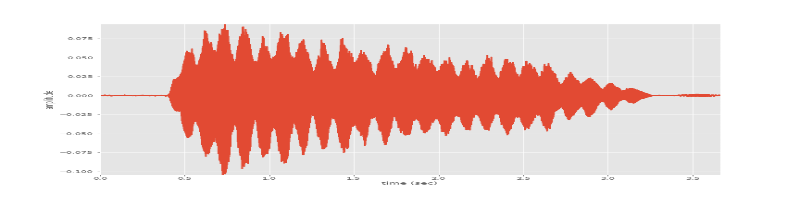
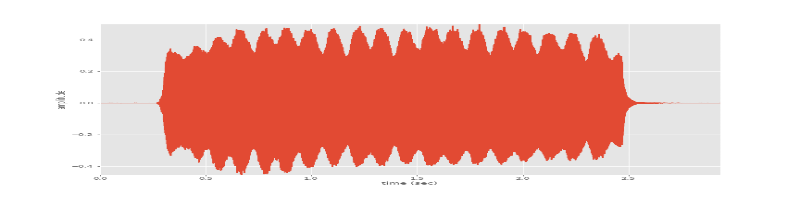
Menampilkan waktu proses

diff --git a/audio_testing.py b/audio_testing.py
@@ -42,9 +42,9 @@ class Main:
         self.path = ""
         global source, file_paths, models, speakers
         #path to training data
-        source   = "development_set/"
+        source   = "pendahuluan_set/"
         modelpath = "pendahuluan_models/"
-        test_file = "development_set_test.txt"    
+        test_file = "pendahuluan_set_test.txt"    
         file_paths = open(test_file,'r')
         
         gmm_files = [os.path.join(modelpath,fname) for fname in os.listdir(modelpath) if fname.endswith('.gmm')]
@@ -82,26 +82,26 @@ class Main:
         self.FnameTxt.set("Belum Ada Pupuh")
         self.WSizeTxt = StringVar()
         self.windowSizeEnt = Entry(self.opFrame, width=15, bd=2, textvariable=self.WSizeTxt)
-        self.windowSizeEnt.grid(row=1, column=0, padx=5, pady=3, sticky=W)
+        self.windowSizeEnt.grid(row=1, column=0, padx=5, sticky=W)
         self.WSizeTxt.set("Window Size")
         self.OvlSizeTxt = StringVar()
         self.overlapSizeEnt = Entry(self.opFrame, width=15, bd=2, textvariable=self.OvlSizeTxt)
-        self.overlapSizeEnt.grid(row=1, column=1, columnspan=2, padx=3, pady=3, sticky=W)
+        self.overlapSizeEnt.grid(row=1, column=1, columnspan=2, padx=3, sticky=W)
         self.OvlSizeTxt.set("Overlapping Size")
         self.PTreshTxt = StringVar()
         self.peakTresholdEnt = Entry(self.opFrame, width=15, bd=2, textvariable=self.PTreshTxt)
-        self.peakTresholdEnt.grid(row=1, column=3, padx=3, pady=3, sticky=W)
+        self.peakTresholdEnt.grid(row=1, column=3, padx=3, sticky=W)
         self.PTreshTxt.set("Peak Treshold")
         self.proccessBtn = Button(self.opFrame, width=10, text="Proccess", bg="#e5efd7",
                                   command=self.proses)
-        self.proccessBtn.grid(row=2, column=3, padx=3, pady=3, sticky=W)
+        self.proccessBtn.grid(row=2, column=3, padx=3, sticky=W)
         
         
         self.plotFrame = Frame(self.parent, bg="#d7efea")
         self.plotFrame.grid(row=1, column=0,sticky=N)
         self.detAsLbl = Label(self.plotFrame, fg="black", text="Detected As",
                               bg="#d7efea")
-        self.detAsLbl.grid(row=0, column=0, columnspan=4, pady=5)
+        self.detAsLbl.grid(row=0, column=0, columnspan=4, pady=2)
         self.resultLbl = Label(self.plotFrame, text="none", bg="#d7efea")
         self.resultLbl.grid(row=1, column=0, columnspan=4, pady=3)
         self.logLikeLbl = Label(self.plotFrame, fg="black", text="Log likelihood = ",
@@ -111,14 +111,14 @@ class Main:
         self.scoreLbl.grid(row=2, column=2, columnspan=2, sticky=W)
         self.timeDomLbl = Label(self.plotFrame,fg="black", text="Time Domain",
                                 bg="#d7efea")
-        self.timeDomLbl.grid(row=3, column=0, pady=5, padx=4, sticky=W)
+        self.timeDomLbl.grid(row=3, column=0, pady=3, padx=4, sticky=W)
         self.timeDomPlt = Label(self.plotFrame, width=800, height=200, 
                                 image=self.TimeDomImg, bg="#4ae056")
         self.timeDomPlt.grid(row=4, column=0, columnspan=4, padx=5)
         self.timeDomPlt.image = self.TimeDomImg
         self.freqDomLbl = Label(self.plotFrame,fg="black", text="Frequency Domain",
                                 bg="#d7efea")
-        self.freqDomLbl.grid(row=5, column=0, pady=5, padx=4, sticky=W)
+        self.freqDomLbl.grid(row=5, column=0, pady=3, padx=4, sticky=W)
         self.freqDomPlt = Label(self.plotFrame, width=800, height=200, 
                                 image=self.FreqDomImg, bg="#4ae056")
         self.freqDomPlt.grid(row=6, column=0, columnspan=4, padx=5)
@@ -129,6 +129,8 @@ class Main:
         self.peakLbl = Label(self.plotFrame, fg="black", 
                              text="click the Peak button to show peak location")
         self.peakLbl.grid(row=8, column=0, columnspan=4, sticky=W)
+        self.proTimeLbl = Label(self.plotFrame, fg="black", text="")
+        self.proTimeLbl.grid(row=9, column=0, columnspan=4, sticky=W)
     
     def showPeak(self):
         self.peakLbl.config(text=self.peakloc)
@@ -145,8 +147,8 @@ class Main:
     
     def proses(self):
         if len(self.path) > 0:
+            start_time = time.time()
             rates, audio = read(self.path)
-            print "proses"
             INT16_FAC = (2**15)-1
             INT32_FAC = (2**31)-1
             INT64_FAC = (2**63)-1
@@ -159,7 +161,6 @@ class Main:
             maximum = np.max(mX)
             t = float(self.PTreshTxt.get())
             treshold = (minimum + maximum)*(1-t)
-            print "treshold =",treshold
             ploc = peakdetect.peakDetection(mX,treshold)
             if ploc.size != 0:
                 peak_loc = []
@@ -210,6 +211,9 @@ class Main:
             self.FreqDomImg = ImageTk.PhotoImage(self.FreqDomImg)
             self.freqDomPlt.config(image=self.FreqDomImg, width=800, height=200)
             self.freqDomPlt.image = self.FreqDomImg
+            end_time = time.time() - start_time
+            self.proTimeLbl.config(text="Identifikasi berakhir dengan total waktu %s detik" 
+                                   % end_time)
         else:
             print "belum ada pupuh diinput"
         

diff --git a/audio.py b/audio.py
@@ -112,6 +112,7 @@ class AudioFile:
         N = 2048
         M = 501     #'''bisa di set'''
         H = M/2     #bisa di set manual'
+        
         x = self.datas
         x = np.float32(x)/norm_fact[x.dtype.name]
         fs = self.rates
@@ -141,7 +142,6 @@ class AudioFile:
         numFrames = int(mX[:,0].size)
         frmTime = H*np.arange(numFrames)/float(fs)
         binFreq = fs*np.arange(N*maxplotfreq/fs)/N
-        print np.transpose(mX[:,:int(N*maxplotfreq/fs+1)]).shape
         plt.pcolormesh(frmTime, binFreq, np.transpose(mX[:,:int(N*maxplotfreq/fs+1)]))
         plt.xlabel('time (sec)')
         plt.ylabel('frequency (Hz)')
